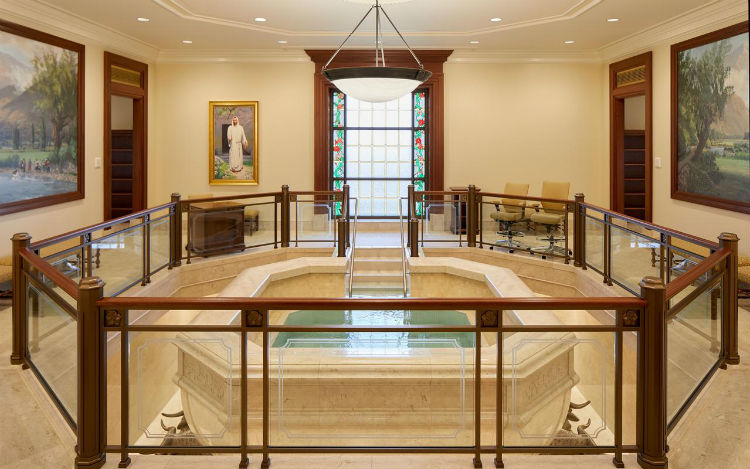
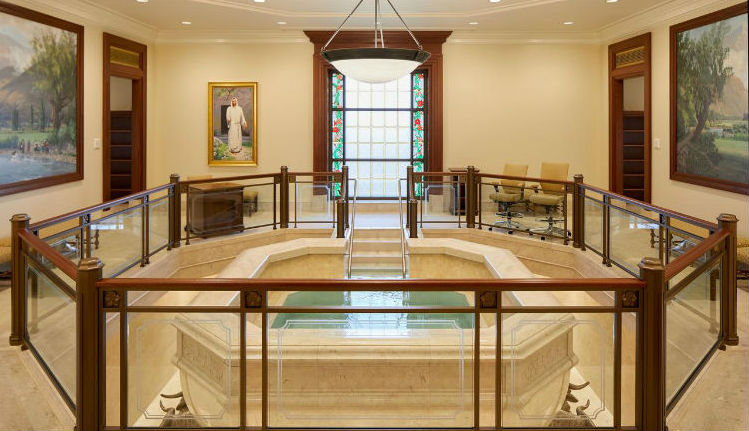
homePageWork

diff --git a/finalProject/index.html b/finalProject/index.html
@@ -40,7 +40,7 @@
 
         <div class="topSection">
             <div class="sdTempleInfo">
-                <h1>San Diego, California Temple</h1>
+                <h2>San Diego, California Temple</h2>
                 <p>Dedicated: April 25, 1993</p>
                 <p>The San Diego California Temple is the 47th constructed and 45th operating temple of The Church of
                     Jesus Christ of Latter-day Saints. Located near the La Jolla community of San Diego, it was built
@@ -48,8 +48,13 @@
                     spire. The East spire is topped with the familiar Angel Moroni statue which adorns most LDS temples.
                 </p>
             </div>
-            <div class="sdTempleImg"><img class="sdTemplePic" src="./images/san-diego-temple.jpg"
-                    alt="Picture of San Diego Temple"></div>
+            <div class="sdTempleImg">
+                    <picture class="templeImg">
+                            <source media="(max-width: 768px)" srcset="images/san-diego-temple500.jpg">
+                            <source media="(max-width: 992px)" srcset="images/san-diego-temple800.jpg" />
+                            <img class="sdTemplePic" src="./images/san-diego-temple.jpg" alt="Picture of San Diego Temple">
+                        </picture>
+                </div>
 
             <div class="actionContact">
                 <div class="description">

diff --git a/finalProject/css/small.css b/finalProject/css/small.css
@@ -124,24 +124,27 @@ main p{
 }
 .topSection{
     display:flex;
-    flex-direction:row;
-    background-color:#FFC861;
+    flex-direction:column;
+    
 }
 .sdTempleInfo{
     display:flex;
     flex-direction:column;
-    width:30%;
     padding: 10px;
+    background-color:#FFC861;
+    width:auto;
 }
 .sdTempleImg{
     display:flex;
-    width:70%;
+    width:auto;
     height: auto;
 }
 
 
 .actionContact{
-    width:35%;
+    display:flex;
+    flex-direction: column;
+    width:auto;
     background-color: white;
 }
 .actionBtn{
@@ -165,13 +168,14 @@ main p{
 
 .lowerSection{
     display:flex;
-    flex-direction:row;
+    flex-direction:column;
     background-color:white;
+    max-width: 100%;
 }
 .templeImg1, .activitiesList, .templeImg2{
     display:flex;
     flex-direction:column;
-    width: 35%;
+    width: auto;
     padding:10px;
 
 } 
@@ -179,7 +183,7 @@ main p{
     box-shadow: 5px 10px #576880;
 
 }
-.activitiesList{
+div .activitiesList{
     width:75%;
     padding:30px;
     border:solid black;
@@ -188,9 +192,10 @@ main p{
     justify-content: center;
 
 }
+
 .activitiesList li{
     font-family: 'Alice', serif;
-    font-size: 1.2rem;
+    font-size: 1rem;
 }
 
 /*.gridWrapper {

diff --git a/finalProject/css/large.css b/finalProject/css/large.css
@@ -8,5 +8,39 @@
     main{
         max-width: 90%;
     }
-
+    .topSection{
+        display:flex;
+        flex-direction:row;
+        background-color:#FFC861;
+    }
+    .sdTempleInfo{
+        display:flex;
+        flex-direction:column;
+        width:30%;
+        padding: 10px;
+    }
+    .sdTempleImg{
+        display:flex;
+        width:70%;
+        height: auto;
+    }
+    .actionContact{
+        display:flex;
+        flex-direction: column;
+        width:35%;
+        background-color: white;
+    }
+    .lowerSection{
+        display:flex;
+        flex-direction:row;
+        background-color:white;
+    }
+    .templeImg1, .activitiesList, .templeImg2{
+        display:flex;
+        flex-direction:column;
+        width: 35%;
+        padding:10px;
+    
+    } 
+    
 }

diff --git a/finalProject/css/medium.css b/finalProject/css/medium.css
@@ -37,4 +37,11 @@
     nav button {
         display: none;
     }
+    .topSection{
+        display:flex;
+        flex-direction:column;
+    }
+    .sdTempleInfo{
+        display:flex;
+        flex-direction:column;
 }
